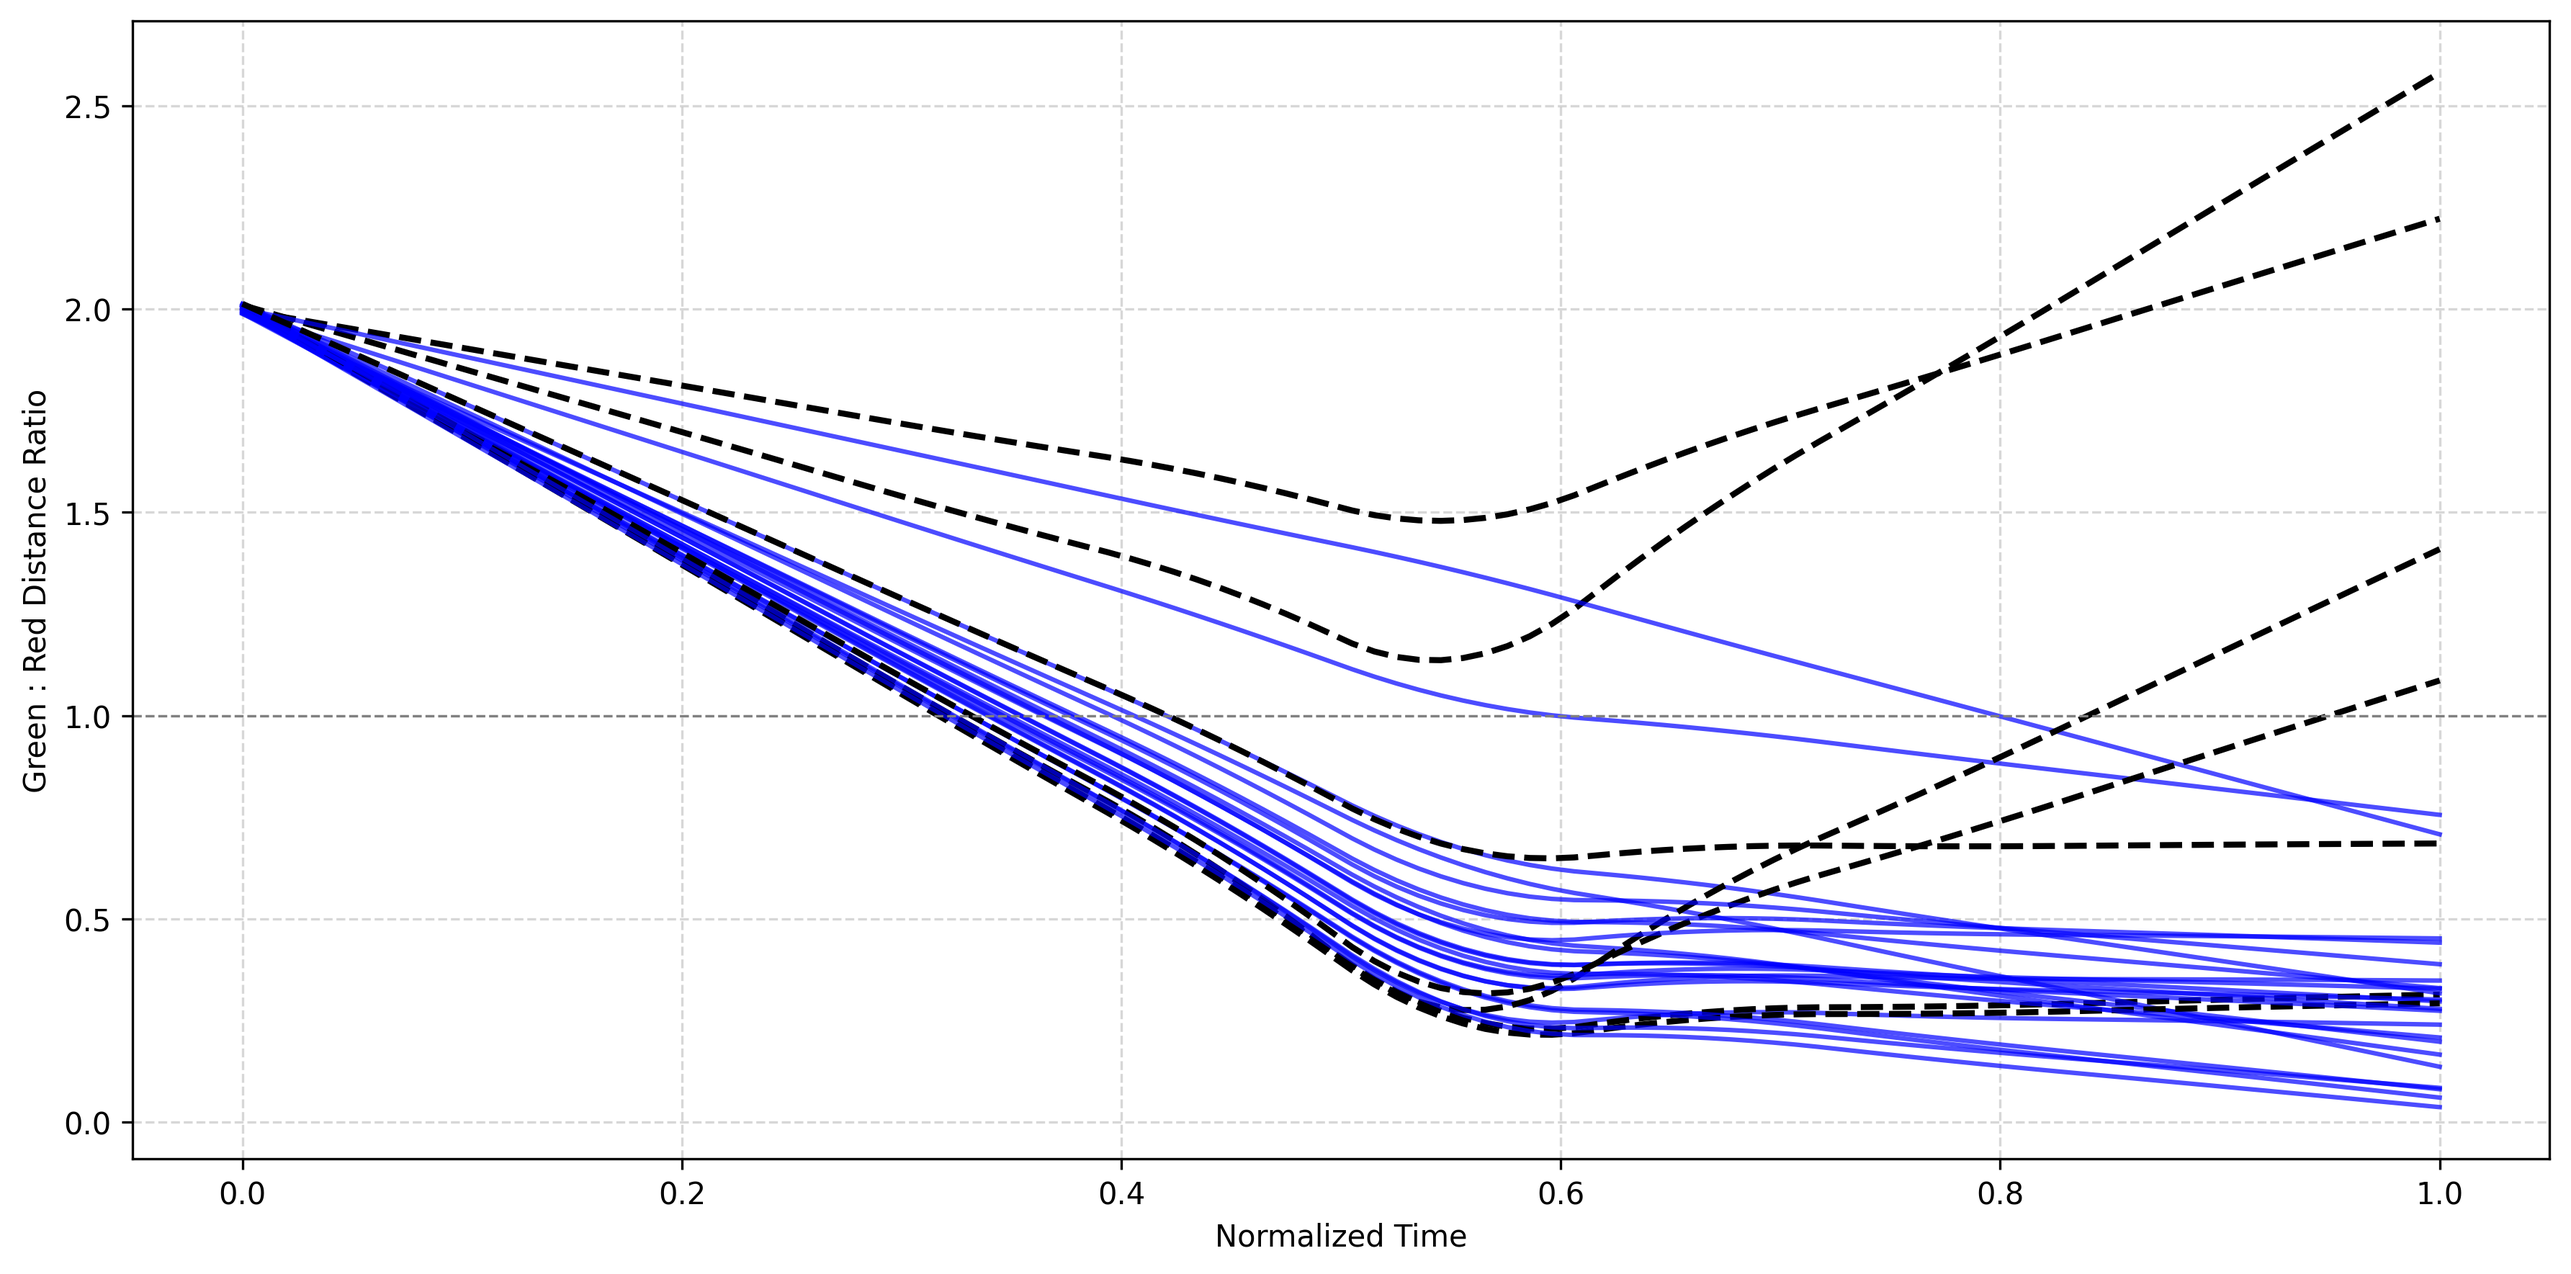
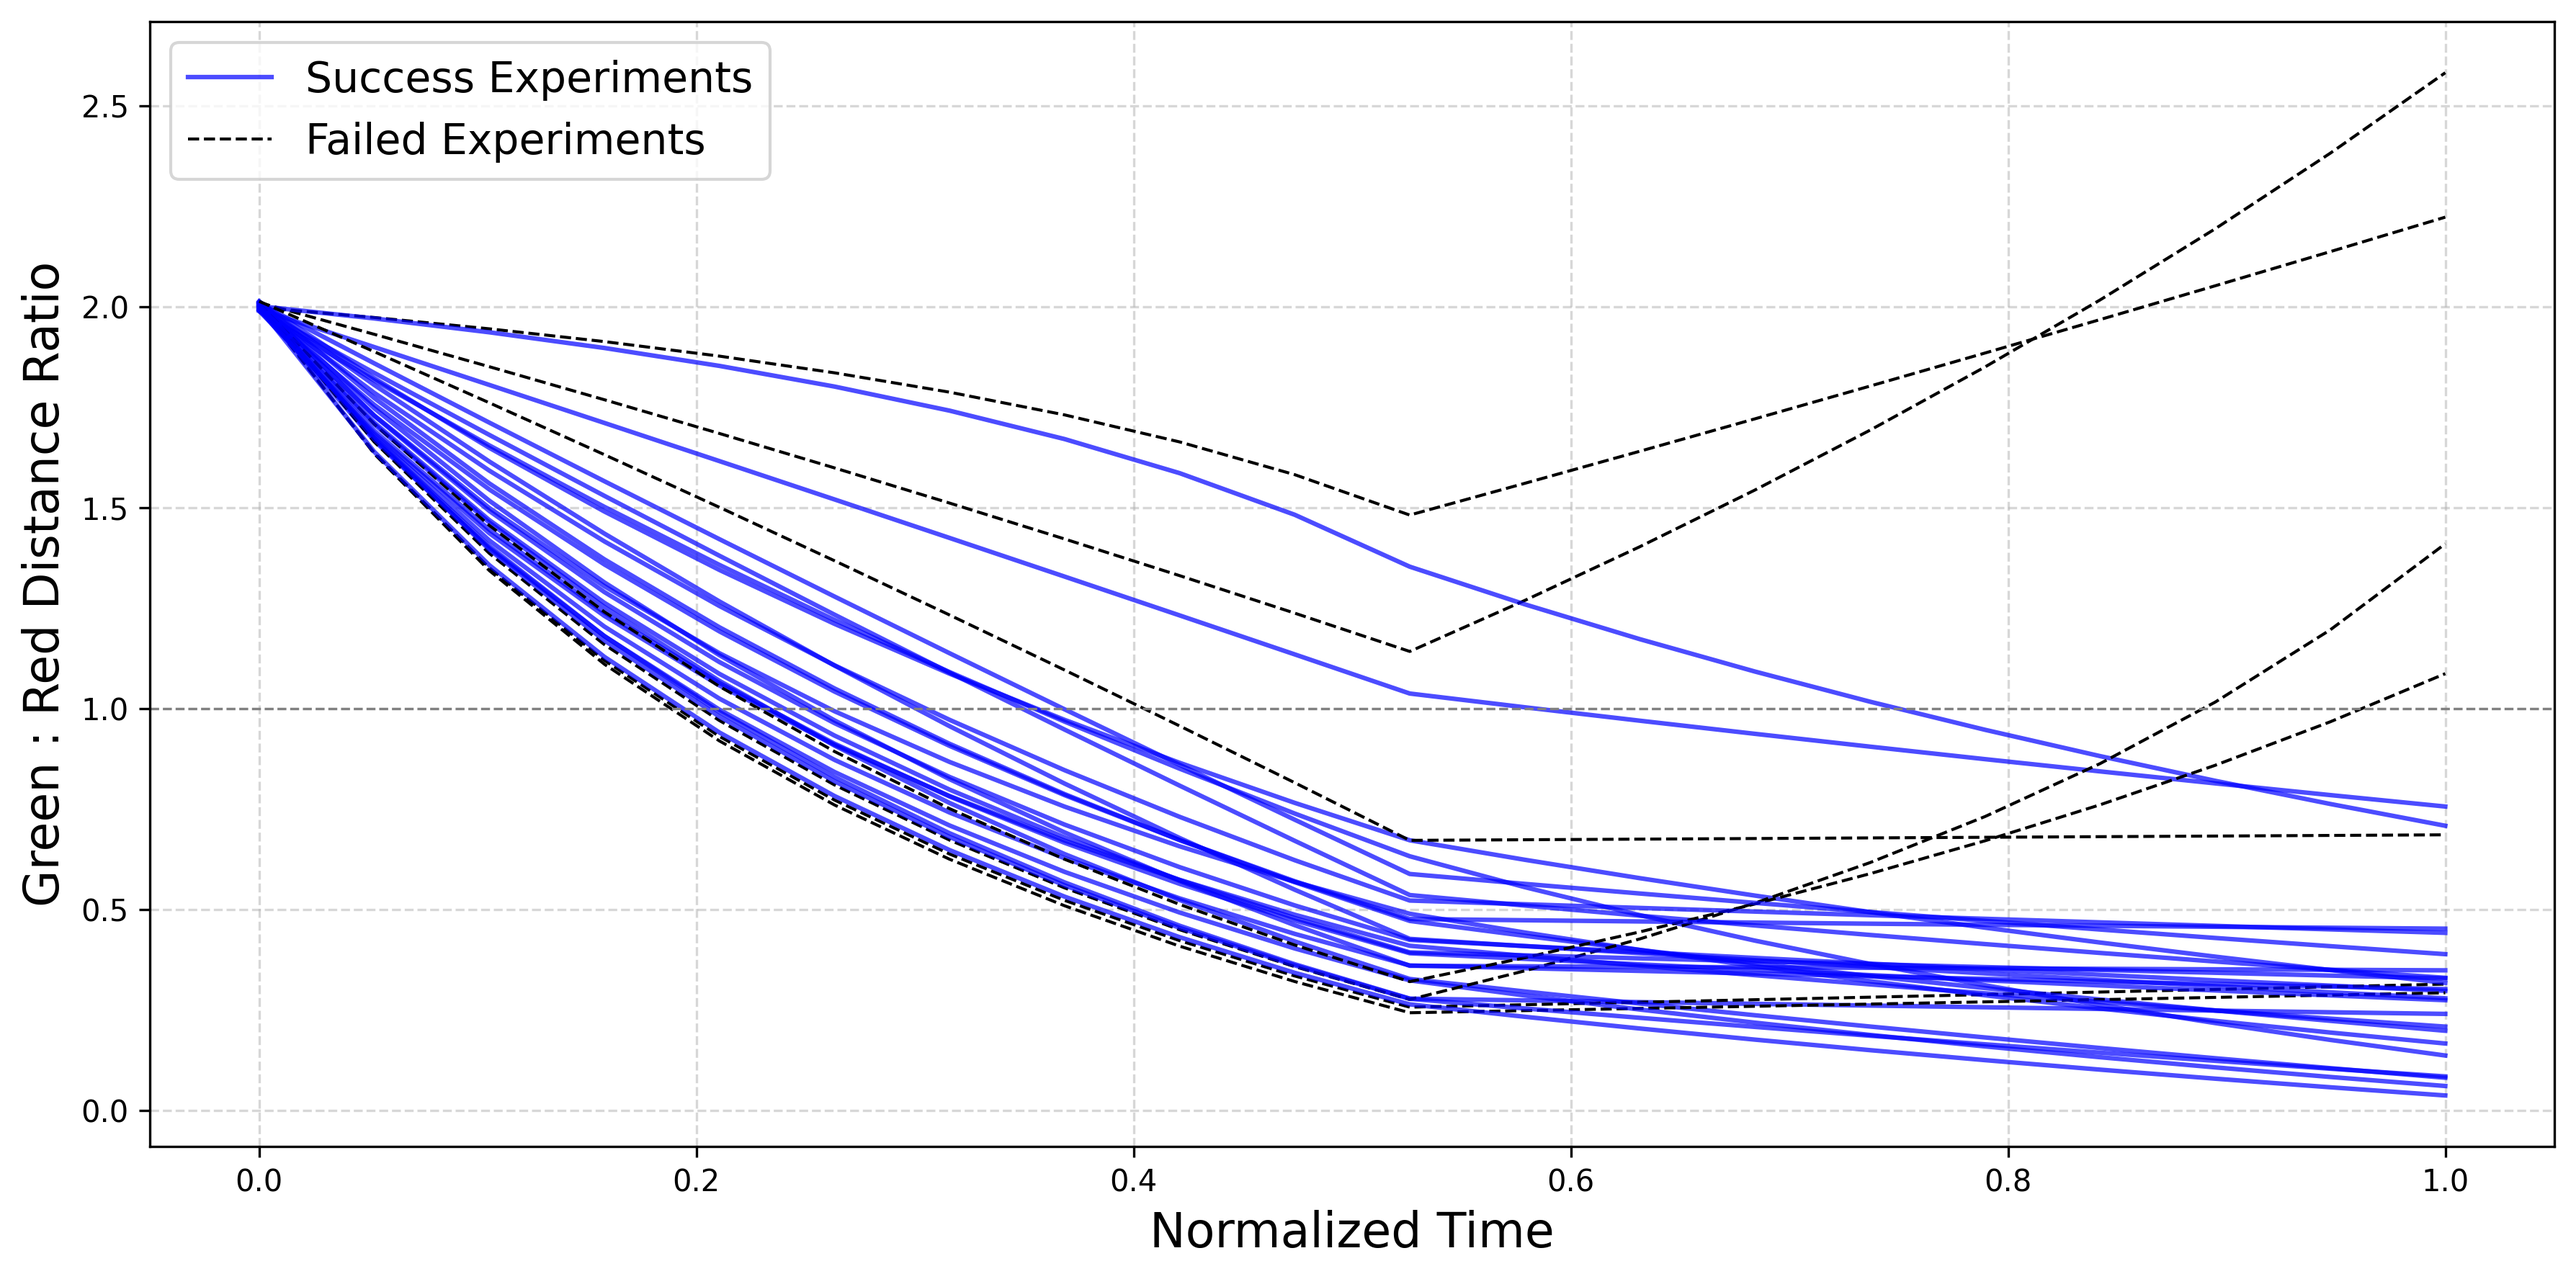
removed the noise inference in ambiguous performance plot

diff --git a/myCode/my_planning_app/logs/ambiguous_performance_plot_3obj_with_noise.py b/myCode/my_planning_app/logs/ambiguous_performance_plot_3obj_with_noise.py
@@ -80,15 +80,15 @@ def plot_sequence_ratios(ratio_seq, success_flags=None, if_save=False):
             plt.plot(x_vals, seq, color='black', linestyle='--', linewidth=1, label='Failed Experiments' if counter == 0 else "")
             counter += 1
     plt.axhline(1.0, linestyle='--', color='gray', linewidth=0.8)
-    plt.ylabel("Green : Red Distance Ratio")
-    plt.xlabel("Normalized Time")
+    plt.ylabel("Green : Red Distance Ratio",fontsize=16)
+    plt.xlabel("Normalized Time",fontsize=16)
     # plt.title("Smoothed Ratio of Distances (Green / Red) with Failure Highlighting")
     plt.grid(True, linestyle='--', alpha=0.5)
-    plt.legend()
+    plt.legend(fontsize=14,loc='upper left')
     plt.tight_layout()
     if if_save:
-        plt.savefig("smoothed_ratios_with_failures_plot_with_noise_interpolation.png", dpi=300, bbox_inches='tight')
-        print("Plot saved as 'smoothed_ratios_with_failures_plot_with_noise_interpolation.png'.")
+        plt.savefig("smoothed_ratios_with_failures_plot.png", dpi=300, bbox_inches='tight')
+        print("Plot saved as 'smoothed_ratios_with_failures_plot.png'.")
     plt.show()
 
 if __name__ == "__main__":
@@ -118,8 +118,23 @@ if __name__ == "__main__":
             if len(dist_cache) == 4:
                 dist_lst.append((dist_cache[0], dist_cache[1], dist_cache[3]))
 
-    success_flags = classify_sequence_success(dist_lst)
-    dist_seq = interpolate_noisy_distances(dist_lst,steps_per_segment=10, noise_std=0.001)
+    success_flags = []
+    failed_paths = []
+
+    for idx, ((r0, g0), (r1, g1), (r2, g2)) in enumerate(dist_lst):
+        def safe_ratio(g, r): return g / r if r != 0 else float('inf')
+        ratio_0 = safe_ratio(g0, r0)
+        ratio_1 = safe_ratio(g1, r1)
+        ratio_2 = safe_ratio(g2, r2)
+        is_success = ratio_0 > ratio_1 > ratio_2
+        success_flags.append(is_success)
+        if not is_success and ratio_2 > ratio_1:
+            failed_paths.append(log_files[idx])
+
+    print("Files where third ratio > second ratio:")
+    for p in failed_paths:
+        print(p)
+    dist_seq = interpolate_noisy_distances(dist_lst,steps_per_segment=10, noise_std=0)
     ratio_seq = convert_sequence_to_ratios(dist_seq)
 
     print(f"Success rate: {sum(success_flags) / len(success_flags):.2%}")

diff --git a/myCode/my_planning_app/logs/ideal_symbolic_plan_length.py b/myCode/my_planning_app/logs/ideal_symbolic_plan_length.py
@@ -45,6 +45,13 @@ basic_tokens = get_token_counts(basic_plans)
 ambiguous_tokens = get_token_counts(ambiguous_plans)
 trajectory_tokens = get_token_counts(trajectory_plans)
 
+mean_basic = sum(basic_tokens) / len(basic_tokens) if basic_tokens else 0
+mean_ambiguous = sum(ambiguous_tokens) / len(ambiguous_tokens) if ambiguous_tokens else 0
+mean_trajectory = sum(trajectory_tokens) / len(trajectory_tokens) if trajectory_tokens else 0
+print(f"Basic Plans Token Mean Counts: {mean_basic}")
+print(f"Ambiguous Plans Token Mean Counts: {mean_ambiguous}")
+print(f"Trajectory Plans Token Mean Counts: {mean_trajectory}")
+
 # Assign fixed x positions
 x_positions = {
     "Basic": 1,
@@ -76,6 +83,6 @@ plt.legend()
 plt.tight_layout()
 # save the plot
 save_dir = Path("/home/jingyang/robosuite/myCode/my_planning_app/logs/")
-output_path = save_dir / "symbolic_plan_token_counts.png"
-plt.savefig(output_path, dpi=300, bbox_inches='tight')
+# output_path = save_dir / "symbolic_plan_token_counts.png"
+# plt.savefig(output_path, dpi=300, bbox_inches='tight')
 plt.show()
